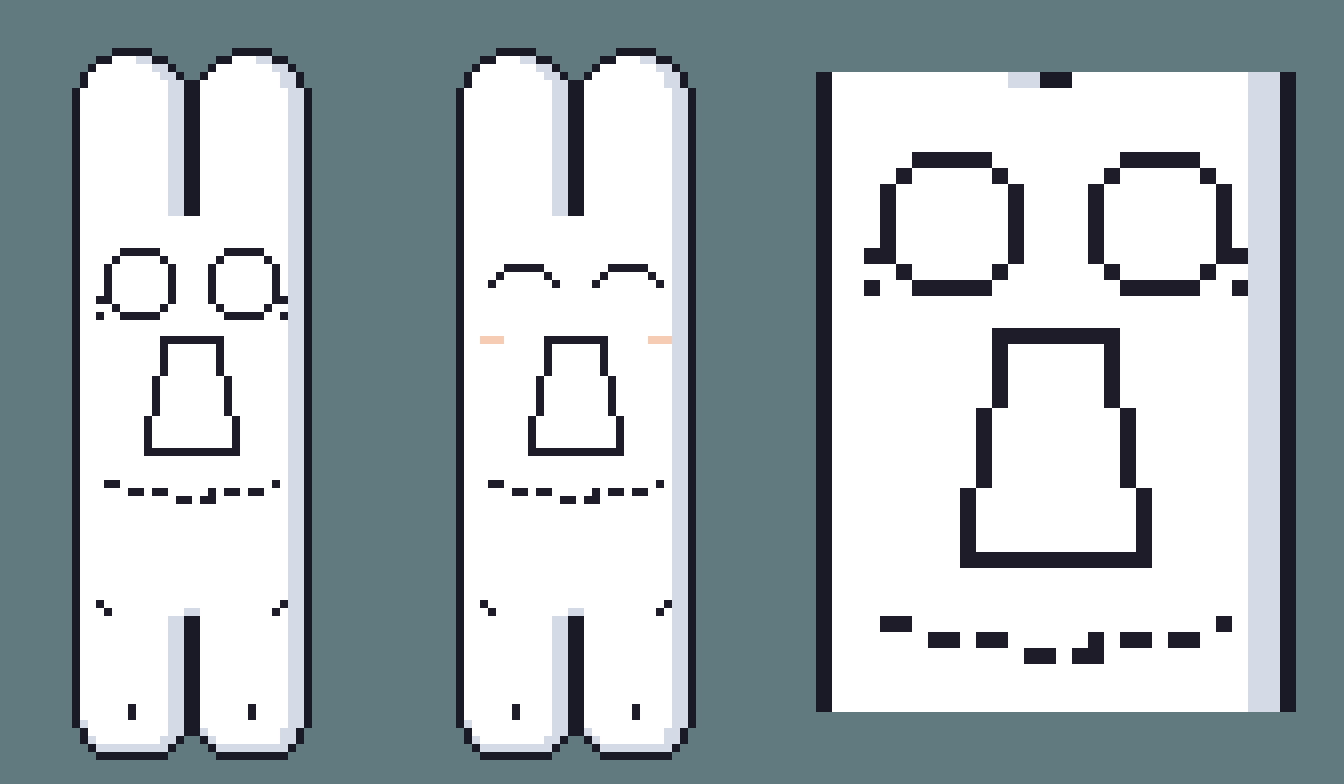
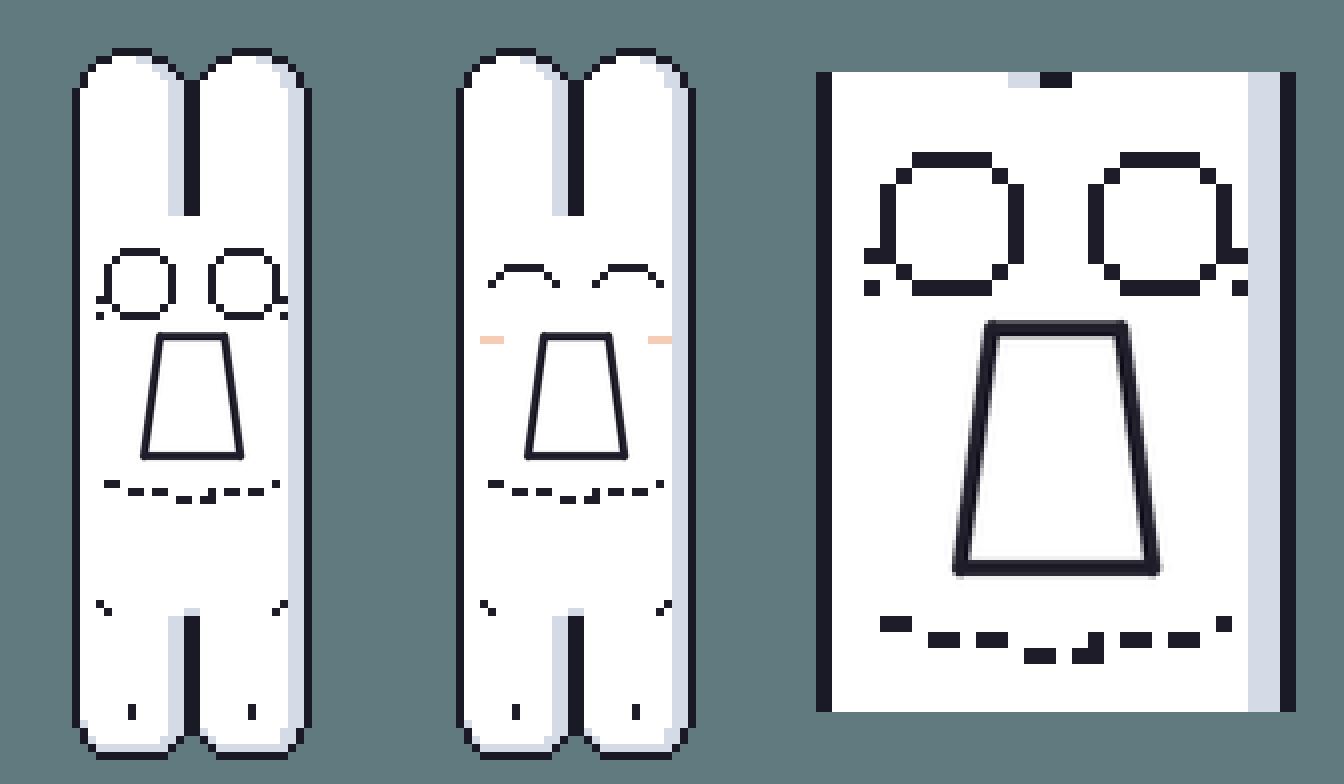
Second pet: smooth-lined tall trapezoid mouth on a 4x output
Claude-Session: https://claude.ai/code/session_01HECj3vEVqSiXz2qRpdguCP

Changed region(s): [[0.6875, 0.398, 0.875, 0.7347], [0.0938, 0.398, 0.1875, 0.6122], [0.375, 0.398, 0.4688, 0.6122]]

diff --git a/pixel/generate_rabbit.py b/pixel/generate_rabbit.py
@@ -2,8 +2,9 @@
 """第二隻桌寵：白色長耳玩偶的原生像素圖產生器（96×108，和火星人同一套畫法）。
 
 身體是一個直筒：上面兩隻長耳、圓圈眼睛加睫毛、梯形嘴巴、臉下方一道縫線、兩條短腿。
-身體用圓角方塊和仿射矩陣在「一格 = 一個像素」的畫布上算出來；
-眼睛和嘴巴是固定的小圖案，直接一格一格貼上去，形狀才會平整。
+身體用圓角方塊和仿射矩陣在「一格 = 一個像素」的畫布上算出來，眼睛是固定的像素小圖案。
+嘴巴要的是平滑的斜線，像素格子畫不出來，所以成品圖放大 4 倍輸出：
+身體仍是一格一格的像素（每格變成 4×4），只有嘴巴的梯形用平滑的線畫在上面。
 
 用法：python3 pixel/generate_rabbit.py   →  輸出到 pixel/out/rabbit/
 """
@@ -73,24 +74,14 @@ EYE_STAMPS = {
 }
 
 
-def mouth_rows(top=8, height=15, step=5):
-    """平整的梯形：上底 top 格，之後每 step 列左右各往外一格，兩側是規律的階梯，底邊齊平。"""
-    widest = top + 2 * ((height - 1) // step)
-    rows = []
-    for r in range(height):
-        w = top + 2 * (r // step)
-        pad = (widest - w) // 2
-        inside = ("k" if r in (0, height - 1) else "w") * (w - 2)
-        rows.append("." * pad + "k" + inside + "k" + "." * pad)
-    return rows
-
-
-MOUTH = mouth_rows()                # 上底 8、下底 12、高 15
+MOUTH = (8.0, 12.0, 15.0)           # 嘴巴：瘦高的梯形（上底、下底、高），單位是像素格
+HI = 4                              # 成品圖的放大倍率
 
 REST = dict(dy=0, lean=0, squash=1.0, earL=0.0, earR=0.0, eyes="open", look=0, legL=0, legR=0, blush=False)
 
 
-def render(pose=None):
+def render_pixels(pose=None):
+    """畫出像素的部分（原生 96×108）：身體、耳朵、腿、眼睛、縫線、外框。嘴巴另外畫。"""
     p = dict(REST)
     if pose:
         p.update(pose)
@@ -130,7 +121,6 @@ def render(pose=None):
         if side == 1:
             rows = [r[::-1] for r in rows]                     # 右眼左右對稱
         c.stamp(rows, *pt(body, CX + side * ex + p["look"], ey), legend, 6)
-    c.stamp(MOUTH, *pt(body, CX + p["look"], MOUTH_Y), legend, 6)
     # 臉下方的縫線：微微下彎的虛線
     for i, x in enumerate(np.arange(-10.5, 11.0, 1.0)):
         if i % 3 == 2:
@@ -151,7 +141,30 @@ def render(pose=None):
     # 6. 外框
     filled = c.col > 0
     c.col[dilate(filled) & ~filled] = c.idx["line"]
-    return c
+    return c, body, p
+
+
+def render(pose=None):
+    """畫出一格成品圖（放大 HI 倍的 RGBA 圖）：像素身體 + 平滑線條的梯形嘴巴。"""
+    c, body, p = render_pixels(pose)
+    img = g.to_image(c)
+    img = img.resize((W * HI, H * HI), Image.NEAREST)
+    # 嘴巴：先畫大 4 倍再縮回來，線條邊緣才平滑。線寬等於一個像素格。
+    top, bottom, height = MOUTH
+    y0, y1 = MOUTH_Y - height / 2, MOUTH_Y + height / 2
+    corners = [pt(body, CX - top / 2 + p["look"], y0), pt(body, CX + top / 2 + p["look"], y0),
+               pt(body, CX + bottom / 2 + p["look"], y1), pt(body, CX - bottom / 2 + p["look"], y1)]
+    ss = 4
+    k = HI * ss
+    layer = Image.new("RGBA", (W * k, H * k))
+    d = ImageDraw.Draw(layer)
+    pts = [(x * k, y * k) for x, y in corners]
+    d.polygon(pts, fill=(*g.PALETTE["fur"], 255))
+    d.line(pts + [pts[0]], fill=(*g.PALETTE["ink"], 255), width=k, joint="curve")
+    for x, y in pts:                                           # 轉角補成圓的，才不會缺角
+        d.ellipse([x - k / 2, y - k / 2, x + k / 2, y + k / 2], fill=(*g.PALETTE["ink"], 255))
+    img.alpha_composite(layer.resize((W * HI, H * HI), Image.LANCZOS))
+    return img
 
 
 # ---------------------------------------------------------------- 動畫（每組 8 格）
@@ -197,33 +210,43 @@ ANIMS = [
 ]
 
 
+def on_bg(img, scale=1):
+    """成品圖（已放大 HI 倍）貼到預覽底色上；scale 是再放大的整數倍。"""
+    if scale != 1:
+        img = img.resize((img.width * scale, img.height * scale), Image.NEAREST)
+    out = Image.new("RGB", img.size, g.BG)
+    out.paste(img, (0, 0), img)
+    return out
+
+
 def main():
     os.makedirs(OUT, exist_ok=True)
-    g.to_image(render()).save(os.path.join(OUT, "sprite.png"))
+    render().save(os.path.join(OUT, "sprite.png"))
     # 造型大圖：平常與開心的表情，再加一張臉部特寫
-    crop = (24, 8, 72, 106)
-    normal = g.on_bg(g.to_image(render()).crop(crop), 8)
-    happy = g.on_bg(g.to_image(render(dict(eyes="happy", blush=True))).crop(crop), 8)
-    face = g.on_bg(g.to_image(render()).crop((30, 34, 66, 74)), 16)
+    crop = tuple(v * HI for v in (24, 8, 72, 106))
+    normal = on_bg(render().crop(crop), 2)
+    happy = on_bg(render(dict(eyes="happy", blush=True)).crop(crop), 2)
+    face = on_bg(render().crop(tuple(v * HI for v in (30, 34, 66, 74))), 4)
     design = Image.new("RGB", (normal.width * 2 + face.width, normal.height), g.BG)
     design.paste(normal, (0, 0))
     design.paste(happy, (normal.width, 0))
     design.paste(face, (normal.width * 2, (normal.height - face.height) // 2))
     design.save(os.path.join(OUT, "design.png"))
     # 動畫總覽
-    sc, lw = 3, 150
-    sheet = Image.new("RGB", (lw + W * sc * FRAMES, (H * sc + 6) * len(ANIMS)), (20, 23, 32))
+    lw = 150
+    fw, fh = W * HI // 2, H * HI // 2
+    sheet = Image.new("RGB", (lw + fw * FRAMES, (fh + 6) * len(ANIMS)), (20, 23, 32))
     dr = ImageDraw.Draw(sheet)
     for j, (name, label, fn, ms) in enumerate(ANIMS):
-        frames = [g.to_image(render(fn(i / FRAMES))) for i in range(FRAMES)]
-        strip = Image.new("RGBA", (W * FRAMES, H))
+        frames = [render(fn(i / FRAMES)) for i in range(FRAMES)]
+        strip = Image.new("RGBA", (W * HI * FRAMES, H * HI))
         for i, im in enumerate(frames):
-            strip.paste(im, (i * W, 0))
-            sheet.paste(g.on_bg(im, sc), (lw + i * W * sc, j * (H * sc + 6)))
+            strip.paste(im, (i * W * HI, 0))
+            sheet.paste(on_bg(im).resize((fw, fh), Image.LANCZOS), (lw + i * fw, j * (fh + 6)))
         strip.save(os.path.join(OUT, f"{name}.png"))
-        gif = [g.on_bg(im, 5) for im in frames]
+        gif = [on_bg(im) for im in frames]
         gif[0].save(os.path.join(OUT, f"{name}-preview.gif"), save_all=True, append_images=gif[1:], duration=ms, loop=0)
-        dr.text((10, j * (H * sc + 6) + H * sc // 2 - 12), label, font=g.font(22), fill=(240, 240, 245))
+        dr.text((10, j * (fh + 6) + fh // 2 - 12), label, font=g.font(22), fill=(240, 240, 245))
     sheet.save(os.path.join(OUT, "all-frames.png"))
     print("saved →", OUT)
 
